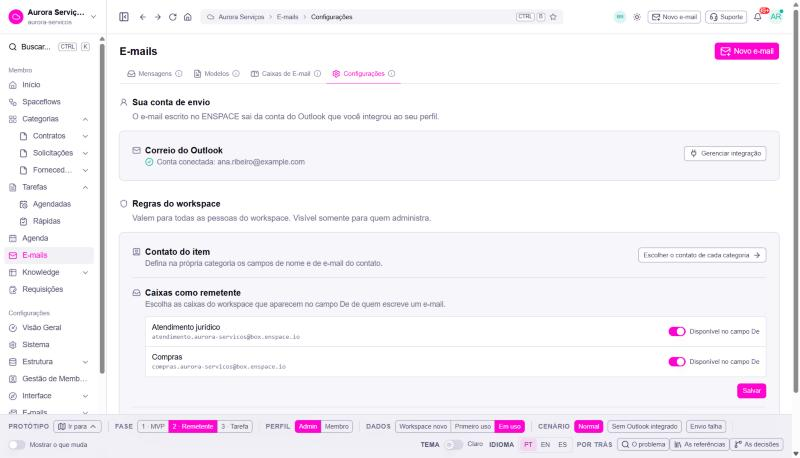
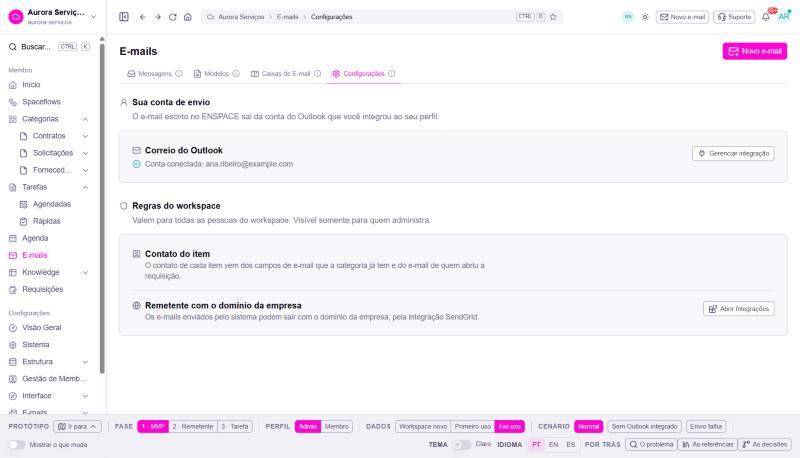
[PROTO] comunicacao-no-workspace — rodada 8 — Configurações: status da conta alinhado ao título (ícones e textos na mesma coluna)

diff --git a/app/pages/comunicacao-no-workspace/_AbasDaCentral.vue b/app/pages/comunicacao-no-workspace/_AbasDaCentral.vue
@@ -225,16 +225,17 @@ function integrar() {
           <!-- A conta é uma linha como as regras: nome, status na descrição, ação à direita -->
           <UFormField
             class="flex items-start justify-between gap-4 max-sm:flex-col"
-            :ui="{ wrapper: 'max-w-2xl', description: 'ps-6', container: 'shrink-0' }"
+            :ui="{ wrapper: 'max-w-2xl', description: 'mt-1', container: 'shrink-0' }"
           >
             <template #label>
               <span class="flex items-center gap-2 text-base font-semibold text-highlighted"><UIcon name="i-lucide-mail" class="size-4 shrink-0 text-muted" />{{ tc.config.outlookTitulo }}</span>
             </template>
             <template #description>
-              <span class="flex items-start gap-1.5">
+              <!-- O ícone do status fica na coluna do ícone do título, e o texto na coluna do nome -->
+              <span class="flex items-center gap-2">
                 <UIcon
                   :name="outlookIntegrado ? 'i-lucide-circle-check' : 'i-lucide-circle-alert'"
-                  class="mt-0.5 size-4 shrink-0"
+                  class="size-4 shrink-0"
                   :class="outlookIntegrado ? 'text-success' : 'text-warning'"
                 />
                 {{ outlookIntegrado ? tc.config.contaConectada(EU.email ?? '') : tc.config.contaSem }}

diff --git a/app/pages/comunicacao-no-workspace/DECISOES.md b/app/pages/comunicacao-no-workspace/DECISOES.md
@@ -418,6 +418,10 @@ disponível" e "Integrar contas"; o botão E-mail abre o app da pessoa (mailto:)
 - **Mudou:** a conta de envio virou uma linha igual às regras: ícone de e-mail, "Correio do Outlook" em
   negrito, o status como descrição (círculo verde e "Conta conectada: <e-mail>", ou alerta amarelo e o
   aviso de que o botão E-mail abre o aplicativo do computador) e o botão à direita. O selo verde saiu.
+- **Ajuste (alinhamento):** "meio colado, meio torto o texto em comparaçao ao simbolo". O ícone do
+  status fica na coluna do ícone do título, e o texto na coluna do nome, cada ícone centrado na
+  própria linha, com um respiro entre o nome e o status. Medido na tela: ícones e textos em 2 colunas
+  exatas.
 - **Ver:** print [a conta de envio em linha](evidencias/prototipo-31-conta-de-envio-em-linha.jpg).
 - **Pedido (texto ao lado da busca):** "esses textos instrucionais ao lado das caixas de busca devem
   ser retirados. ta horrivel [...] talvez a própria aba possa ter um "i" de informaçao com tooltip
